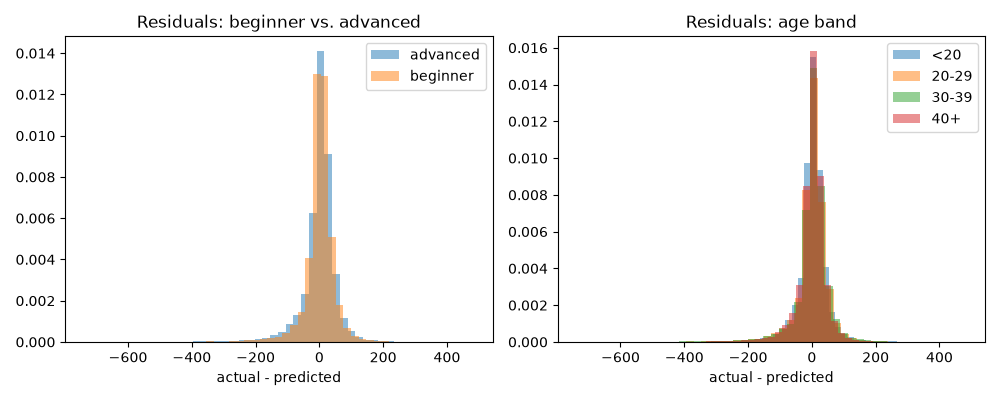
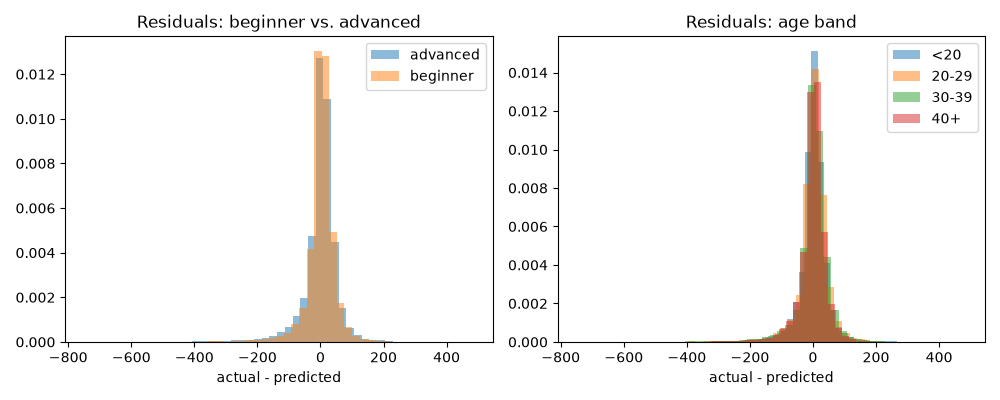
Phase 9.5: additional features

diff --git a/src/features.py b/src/features.py
@@ -43,6 +43,62 @@ def build_features(pairs_df) -> pd.DataFrame:
     #
     pairs_df['linear_trend_slope_last_N_meets'] = grouped.apply(linear_trend_kgs).droplevel(0)
 
+    # --- attempt-level features (from the current meet's own attempts - not leakage,
+    # this is all known at the time of the meet being used to predict the NEXT one) ---
+
+    attempt_cols = [
+        'Squat1Kg', 'Squat2Kg', 'Squat3Kg',
+        'Bench1Kg', 'Bench2Kg', 'Bench3Kg',
+        'Deadlift1Kg', 'Deadlift2Kg', 'Deadlift3Kg',
+    ]
+    # negative attempt value = missed; NaN = attempt not taken, doesn't count as missed
+    pairs_df['missed_attempts_last_meet'] = (pairs_df[attempt_cols] < 0).sum(axis=1)
+
+    # opener -> best jump, per lift, then averaged across squat/bench/deadlift
+    lift_pct_gains = []
+    for opener_col, best_col in [
+        ('Squat1Kg', 'Best3SquatKg'),
+        ('Bench1Kg', 'Best3BenchKg'),
+        ('Deadlift1Kg', 'Best3DeadliftKg'),
+    ]:
+        opener = pairs_df[opener_col].abs()
+        pct_gain = (pairs_df[best_col] - opener) / opener
+        lift_pct_gains.append(pct_gain)
+
+    pairs_df['opener_to_best_pct_gain'] = pd.concat(lift_pct_gains, axis=1).mean(axis=1)
+
+    # attempt data is missing all-or-nothing per meet (some meets/federations only
+    # report best-lift summaries, not attempt-by-attempt data) - not random, so instead
+    # of dropping ~32% of rows, flag it and fill with a neutral value. Lets tree-based
+    # models learn to route around the filled value using the indicator.
+    pairs_df['has_attempt_data'] = pairs_df[attempt_cols].notna().any(axis=1).astype(int)
+    pairs_df['opener_to_best_pct_gain'] = pairs_df['opener_to_best_pct_gain'].fillna(0)
+
+    # 'Tested' only ever contains 'Yes' or NaN - NaN means not tested, by omission
+    pairs_df['is_tested'] = (pairs_df['Tested'] == 'Yes').astype(int)
+
+    # equipment category (one-hot) - Raw dropped as the baseline/reference category
+    equipment_dummies = pd.get_dummies(pairs_df['Equipment'], prefix='equipment', drop_first=True)
+    pairs_df = pd.concat([pairs_df, equipment_dummies.astype(int)], axis=1)
+
+    # did equipment change since the lifter's last meet - a switch (e.g. Raw -> Single-ply)
+    # would produce a large total jump that has nothing to do with "training progress"
+    pairs_df['equipment_changed'] = (
+        pairs_df['Equipment'] != grouped['Equipment'].shift(1)
+    ).astype(int)
+    # first meet has nothing to compare against - not a real "change", treat as 0
+    pairs_df.loc[grouped.cumcount() == 0, 'equipment_changed'] = 0
+
+    # --- placement / relative standing (from the current meet) ---
+
+    pairs_df['place_last_meet'] = pd.to_numeric(pairs_df['Place'], errors='coerce')
+
+    # percentile standing within the same competition, using Dots (bodyweight-normalized
+    # strength score) instead of raw Place - comparable across weight classes/divisions
+    # without needing to precisely reconstruct official placement categories
+    meet_id = pairs_df[['Date', 'MeetName', 'MeetTown', 'MeetCountry']].astype('string').fillna('').agg('|'.join, axis=1)
+    pairs_df['dots_percentile_in_meet'] = pairs_df.groupby(meet_id)['Dots'].rank(pct=True)
+
     return pairs_df
 
 def linear_trend_kgs(sliced_df, n=5) -> pd.Series:

diff --git a/scripts/08_evaluation.py b/scripts/08_evaluation.py
@@ -14,6 +14,11 @@ FEATURE_COLS = [
     'TotalKg', 'BodyweightKg', 'Age', 'meet_number', 'days_since_last_meet',
     'prev_total_change', 'bodyweight_change', 'rolling_avg_change_last_3_meets',
     'linear_trend_slope_last_N_meets',
+    'missed_attempts_last_meet', 'opener_to_best_pct_gain', 'has_attempt_data',
+    'is_tested',
+    'equipment_Raw', 'equipment_Single-ply', 'equipment_Unlimited', 'equipment_Wraps',
+    'equipment_changed',
+    'place_last_meet', 'dots_percentile_in_meet',
 ]
 
 pairs = pairs.dropna(subset=FEATURE_COLS + ['next_TotalKg'])
